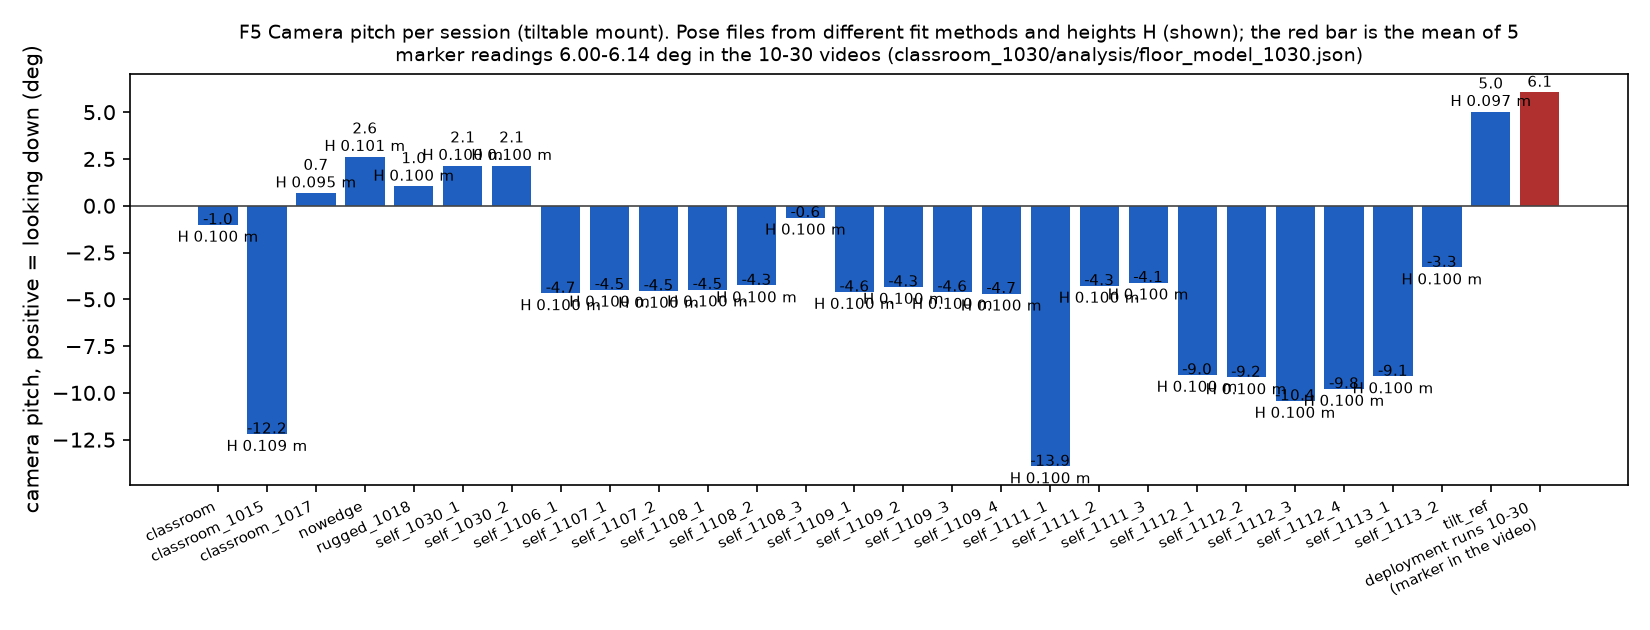
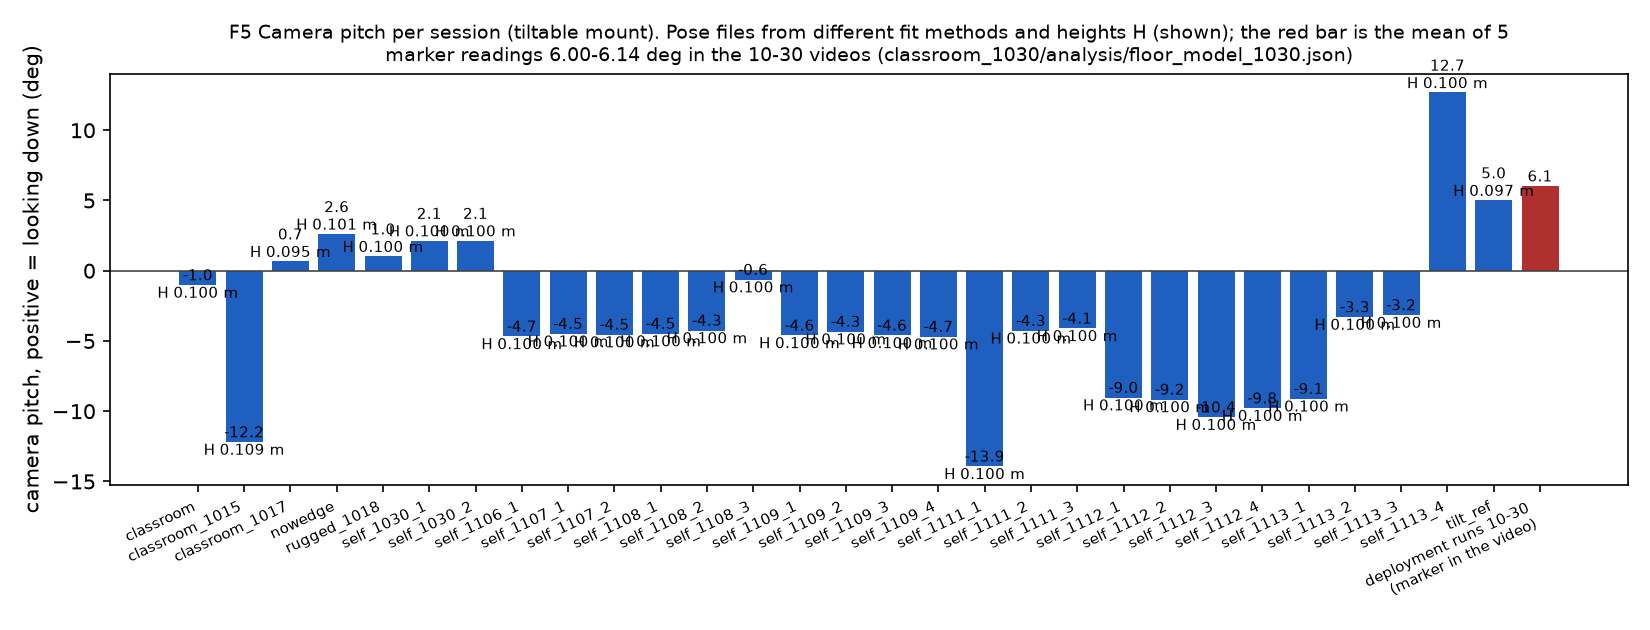
self_pose 1113_4: pitch +12.70 deg, roll -3.57 deg (the mount moved about 16 deg during the dorm session); F5 refreshed

diff --git a/reports/DoanQuocKien/week-06/classroom_1111_pm/README.md b/reports/DoanQuocKien/week-06/classroom_1111_pm/README.md
@@ -174,6 +174,9 @@ No scene, only the board: powered by two Li-ion 18650 cells (stated: Samsung 20R
 - **Pooled accuracy of the closed-loop turns (18 turns over the four sequences):** mean |error| **5.2 deg**, median 5.7, maximum 8.3, signed mean +1.5 deg (limit set by the 0.12 s minimum pulse, about +/-8 deg). The nine trims measured over the drives (-0.0110, -0.0077, +0.0038, -0.0134, -0.0041, -0.0030, -0.0035, -0.0105, -0.0127; mean -0.0073, sd 0.0049) include one positive value: the sign of the veer changed within minutes in sequence `cl_3_noff`.
 - **Higher PI gain (`cl_6_kp045`, kp 0.45 instead of 0.20, output clamped to the legal |w| <= v - 0.41 = 0.14 at v 0.55, same feed-forward prior; the PI never exceeded |w| 0.072 in the kp 0.20 runs, so saturation was not the limit): negative result.** After two good turns (errors +7.9 and +1.3 deg) the first drive started with a +12.4 deg offset; the PI asked for w = 0.095 (about 39 deg/s), **no new observation arrived after 0.3 s** (the new `obs_age_s` log column grows from 0.09 to 1.21 s) and the tool stopped with 'marker lost' at its 1.2 s limit; the robot only turned and crept (no collision risk). The same motion blur that blinds the camera during a spin limits the steering rate during a drive to roughly 30 deg/s, which the kp 0.20 loop (|w| <= 0.07) already sits near, so a higher gain defeats itself. The 12-15 deg offset left by the turns is better removed at rest (a pulse-and-measure alignment before the drive) than by steering harder; not tried.
 - **`cl_7_align` and `cl_8_align_hold` (alignment before each drive, `--align`; then also `--hold-s 0.2`, no strong correction held while blind):** `cl_7` stopped with 'marker lost' in its first drive: the drive began aligned (-3.8 deg), the robot veered left about 19 deg in the first 0.8 s (start-up veer), the first observation after that arrived at 0.82 s, the PI answered with w = -0.1045, the image blurred again and the tool, still holding that correction blind, ran out of its 1.2 s limit (log `closed_loop_cl_7_align_LOST_log.csv`). With the hold limit `cl_8` completed all three repeats; turn errors -5.8, +1.3, +7.4, +6.2, +7.1, +1.0 deg (mean |e| 4.8 deg; with the earlier sequences 24 turns, mean about 5.1 deg); drives: whole-drive mean |bearing| 8.68, 5.02, 3.36 deg (mean 5.68; kp 0.20 feed-forward `cl_5_ff` 4.78; no feed-forward `cl_3_noff` 7.01: no visible effect of the hold limit, n = 3), trims measured -0.0164, -0.0110, -0.0075. **The alignment itself was never exercised:** the start bearings (-2.6, +8.1, +6.7 deg) were all below the 8.4 deg pulse resolution, so no alignment turn was made. A pattern across the sequences: the **first drive of a sequence is the worst** (mean |b| 7.58, 6.98, 6.22 and 5.24, 8.68 deg) and the later drives settle to about 1 deg after the first second (1.26 and 0.79 deg in `cl_8`), which may be the start-up veer of the robot or the trim that is still unadapted; not separated.
+### Camera tilt changed during the dorm session (`self_pose` 2026-11-13 night)
+- `1113_3` (start of the closed-loop session): pitch -3.16 deg (looking up), roll +0.74 deg; `1113_4` (after the closed-loop and speed runs, the robot having been moved by hand many times): **pitch +12.70 deg (looking down), roll -3.57 deg**, spread 0.06 deg over 44 frames, same marker id 0, page on the floor (0.0 m). A shift of about 16 deg in pitch cannot come from the marker height (the pitch changes by about 3.6 deg per 5 cm of page height); the mount moved, cause not known. The range (from the marker size) and the bearing (from the horizontal pixel position) used by the closed-loop, speed and pulse analyses are almost independent of the tilt (a few percent at most on the bearing), so those results stand; anything that turns image rows into floor distance (obstacle detector, pursuit foot-row range, door geometry) needs the new pose or a re-seated mount.
+
 ### Turn pulses, left and right, from the closed-loop logs (48 pulses of `cl_2`, `cl_3`-`cl_8`; `week-06/motion_check_1113/closed_loop_pulses_all.json`; dorm floor, 11.9-12.1 V, w = 0.45)
 - **Method:** every contiguous stretch of w != 0 inside a turn is one pulse; the angle it turned is the change of the board's bearing between the fresh observation that started the pulse and the one that started the next (or ended the turn), signed by the commanded direction. The first extraction had an off-by-one (the logged bearing one tick before a pulse start is stale) and showed impossible numbers; corrected here, no pulse moved the wrong way by more than 3 deg.
 - **Results:** **left** (n = 23): mean 31.2 deg (sd 13.7); pulses of about 0.14 s (n = 7) turned **22.4 deg** (sd 17.4, 165 deg/s), pulses of about 0.27 s (n = 16) turned **35.1 deg** (sd 9.3, 129 deg/s). **Right** (n = 25): mean 29.3 deg (sd 15.5); about 0.14 s (n = 11) **17.3 deg** (sd 10.5, 128 deg/s), about 0.27 s (n = 14) **38.7 deg** (sd 11.8, 143 deg/s). No difference between left and right beyond the spread (22.4 vs 17.3 and 35.1 vs 38.7 deg, all within one sd), and the long-pulse rates (129-143 deg/s) agree with the 147 deg/s of the 0.41 s spin measured on the `dorm_1` frames.
